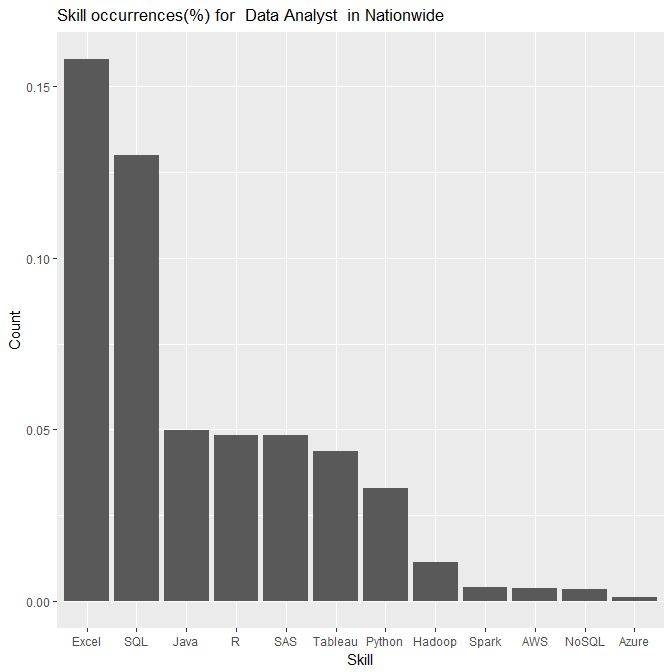
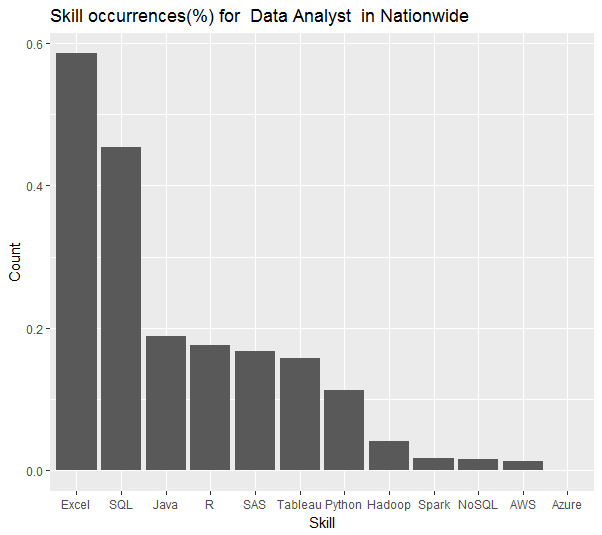
Fixed a logic bug

diff --git a/README.md b/README.md
@@ -83,14 +83,14 @@ start_page <- read_html(ADV_URL)
 
 # get the total job count 
 job_count <- unlist(strsplit(start_page %>% 
-  html_node("#searchCount") %>%
-  html_text(), split = ' ')) 
+                               html_node("#searchCount") %>%
+                               html_text(), split = ' ')) 
 job_count <- as.numeric(str_replace_all(job_count[length(job_count)],',',''))
 cat('Total job count: ', job_count)
 ```
 
 ```
-## Total job count:  82
+## Total job count:  87
 ```
 
 Scraping the job links and page link requires deeper knowledge in html. I spent quite some time to extract those two parts out. Jobs are under html nodes:_h2_ _a_, links for search result pages are more complex, I had to use XPath to find them out. It's almost a must knowing the basic of html/css. Good lesson for me. Hadley actually pointed out a useful tool [SelectorGadget](http://selectorgadget.com/) but I didn't find it to be effective on Indeed's website. Indeed's html appears to be unstructured. Not sure if they do that on purpose to prevent scarping or not. Anyhow, the code is much simpler than the process to reach them properly.
@@ -132,7 +132,7 @@ clean.text <- function(text)
 }
 
 # Given running total dataframe and links to scrape skills and compute running total
-ScrapeJobLinks <- function(running, job.links){
+ScrapeJobLinks <- function(res, job.links){
   for(i in 1:length(job.links)){
     job.url <- paste0(BASE_URL,job.links[i])
     
@@ -144,10 +144,11 @@ ScrapeJobLinks <- function(running, job.links){
       text <- html_text(html)
       text <- clean.text(text)
       df <- data.frame(skill = KEYWORDS, count = ifelse(str_detect(text, KEYWORDS), 1, 0))
-      running$count <- running$count + df$count
+      res$running$count <- res$running$count + df$count
+      res$num_jobs <- res$num_jobs + 1
     }, error=function(e){cat("ERROR :",conditionMessage(e), "\n")})
   }
-  return(running)
+  return(res)
 }
 ```
 
@@ -160,29 +161,34 @@ Now we have the function ready, the links to scrape are ready. Let's run the pro
 # For display purpose, we also need the \\b removed from the keyword set
 KEYWORDS_DISPLAY <- c('Hadoop','Python','SQL', 'NoSQL','R', 'Spark', 'SAS', 'Excel', 'AWS', 'Azure', 'Java', 'Tableau')
 
-# Create empty running total dataframe
+# Create running total dataframe
 running <- data.frame(skill = KEYWORDS_DISPLAY, count = rep(0, length(KEYWORDS_DISPLAY)))
+
+# Since the indeed only display max of 20 pages from search result, we cannot use job_count but need to track by creating a num_jobs
+num_jobs <- 0
+
+# Here is our results object that contains the two stats
+results <- list("running" = running, "num_jobs" = num_jobs)
 
 if(job_count != 0){
   cat('Scraping jobs in Start Page\n')
-  running <- ScrapeJobLinks(running, links)
+  results <- ScrapeJobLinks(results, links)
 }
 
 for(p in 1:length(page.links)-1){
-
-    cat('Moving to Next 50 jobs\n')
-    
-    # Navigate to next page
-    new.page <- read_html(paste0(BASE_URL, page.links[p]))
-    
-    # Get new page job URLs
-    links <- new.page %>%
-      html_nodes("h2 a") %>%
-      html_attr('href')
-    
-    # Scrap job links
-    running <- ScrapeJobLinks(running, links)
   
+  cat('Moving to Next 50 jobs\n')
+  
+  # Navigate to next page
+  new.page <- read_html(paste0(BASE_URL, page.links[p]))
+  
+  # Get new page job URLs
+  links <- new.page %>%
+    html_nodes("h2 a") %>%
+    html_attr('href')
+  
+  # Scrap job links
+  results <- ScrapeJobLinks(results, links)
 }
 ```
 
@@ -191,22 +197,22 @@ Let's bring up the result sorted in descending order of occurrence:
 
 ```r
 # running total
-print(arrange(running, -count))
+print(arrange(results$running, -count))
 ```
 
 ```
 ##      skill count
-## 1        R    51
+## 1        R    52
 ## 2   Python    47
 ## 3      SQL    36
-## 4     Java    31
-## 5      SAS    23
+## 4     Java    32
+## 5      SAS    22
 ## 6    Excel    22
-## 7   Hadoop    20
+## 7   Hadoop    21
 ## 8    Spark    17
 ## 9  Tableau    11
-## 10   NoSQL     7
-## 11     AWS     7
+## 10   NoSQL     8
+## 11     AWS     6
 ## 12   Azure     2
 ```
 
@@ -215,14 +221,14 @@ It's more informative to calculate the percentage of apperances, and visualize i
 
 ```r
 # running total count as percentage
-running$count<-running$count/job_count
+results$running$count<-results$running$count/results$num_jobs
 
 # Reformat the Job Title and Location to readable form
 jt <- str_replace_all(job_title, '\\+|\\\"', ' ')
 loc <- str_replace_all(location, '\\%2C+|\\+',' ')
 
 # Visualization
-ggplot(running, aes(reorder(skill,-count), count)) + geom_bar(stat="identity") + 
+ggplot(results$running, aes(reorder(skill,-count), count)) + geom_bar(stat="identity") + 
   labs(x = 'Skill', y = 'Count', title = paste0('Skill occurrences(%) for ', jt, ' in ', loc))
 ```
 
@@ -265,7 +271,6 @@ job_title <- "\"Data+Analyst\""
 * R consistently outranks Python, with a thin edge though. This is unlike what [Jesse's finding](https://jessesw.com/Data-Science-Skills/) had told us 2 years ago
 * SQL follows at third place and 2nd place for Data Analyst jobs. We know for a fact that, SQL is a must everywhere
 * SAS/Excel still display strong presense in job descriptions. For Data Analyst, Excel is almost the most wanted However; but be cautious that Data Analyst can be a title doing different job than data science. Data entry can also be titled Data Analyst. This is an overly generic title
-* Compare Nationwide to Chicago's result, occurrences of R/Python drop from 60% to 30%; I will need to seek an explanation
 * Java, in my opinion is the next language I should study after R and Python. I should compare C family languages in my keywords but just for now, I think this comparison still shows me how strong Java skill plays a role in job market
 * Tableau is surprisingly weak; my impression was that they had been really popular in Business Intelligence related job
 
